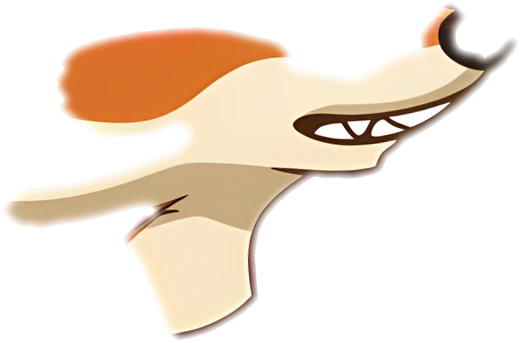
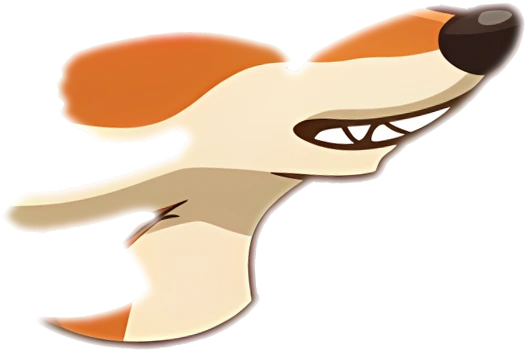
Rig: walk cycle with stance/swing, heel strike and toe-off; far shoe from the near drawing; arms as upper arm + forearm with an outward elbow (straight when hanging)

diff --git a/src/character/AgentFox.ts b/src/character/AgentFox.ts
@@ -1,6 +1,6 @@
 import { TAU, clamp, easeOut, hash, lerp } from '../animation/math';
 import { face as faceTweak, motion, tweaks } from './rig/tweaks';
-import { RIG, anchored, anchoredWarp, drawFace as drawRigFace, drawFaceBrows, hoseControl, noodle, part as rigPart, placed, placedWarp, rigReady, type Face, type MouthId, type V2 } from './rig/rigPuppet';
+import { RIG, anchored, anchoredWarp, drawFace as drawRigFace, drawFaceBrows, hoseControl, ik, noodle, part as rigPart, placed, placedWarp, rigReady, type Face, type MouthId, type V2 } from './rig/rigPuppet';
 export { loadRig as loadPuppet } from './rig/rigPuppet';
 
 /**
@@ -1622,6 +1622,8 @@ const NEAR_T: Partial<Record<ArmMode, ArmDef>> = {
 };
 const SHOULDER: Record<Phys, V2> = { near: J.shoulderBack, far: J.shoulderFront };
 const SLEEVE: Record<Phys, string> = { near: 'sleeve_front', far: 'sleeve_back' };
+const UPPER: Record<Phys, string> = { near: 'arm_front_upper', far: 'arm_back_upper' };
+const LOWER: Record<Phys, string> = { near: 'arm_front_lower', far: 'arm_back_lower' };
 const GLOVE_SUFFIX: Record<Phys, string> = { near: '', far: '_back' };
 const CAP: Record<Phys, string> = { near: 'cap_back', far: 'cap_front' };
 
@@ -1726,8 +1728,20 @@ function hoseHand(A: RigArm) {
   const d = Math.hypot(dx, dy) || 1;
   const out = A.phys === 'far' ? 1 : -1;
   const side = (-dy / d) * out * 0.6 + (dx / d) * 1 >= 0 ? 1 : -1;
-  // Arms hang straight (master look): the sleeve shortens up to 22% before the elbow bows.
-  const { c } = hoseControl(S, A.hand, L, side, 0.22);
+  void side;
+  void hoseControl;
+  // Master look: a real elbow. Upper arm and forearm are separate sleeve pieces; the elbow bends
+  // outward and down (the solution further from the body and lower wins), straight when the arm
+  // is fully reached.
+  const L1 = rigPart(UPPER[A.phys]).len!;
+  const L2 = rigPart(LOWER[A.phys]).len!;
+  // Hanging arms stay straight: the sleeves give up to 20% before the elbow starts to bend.
+  void L;
+  const scale = Math.min(1, Math.max(0.8, (d * 1.002) / Math.max(1, L1 + L2)));
+  const e1 = ik(S, A.hand, L1 * scale, L2 * scale, 1).e;
+  const e2 = ik(S, A.hand, L1 * scale, L2 * scale, -1).e;
+  const score = (e: V2) => out * (e[0] - S[0]) * 1.0 + (e[1] - S[1]) * 0.6;
+  const c: V2 = score(e1) >= score(e2) ? e1 : e2;
   const ang = Math.atan2(A.hand[1] - c[1], A.hand[0] - c[0]);
   const hx = A.hand[0] + Math.cos(ang) * 10;
   const hy = A.hand[1] + Math.sin(ang) * 10;
@@ -1751,7 +1765,10 @@ function drawRigArm(g: G, A: RigArm) {
   if (A.prop === 'hold' && A.phys === 'near') drawHeldPaper(g, h.hx + 60, h.hy - 120);
   drawGloveRig(g, A);
   // Master look: the upper arm is fuller where it leaves the coat's shoulder, tapering to the forearm.
-  noodle(g, SLEEVE[A.phys], h.S, h.c, A.hand, 0, 1, (t) => 1 + 0.24 * Math.pow(Math.max(0, 1 - t / 0.45), 1.6));
+  // Upper arm (fuller at the shoulder), then the forearm over it so the elbow's round end covers the joint.
+  const mid = (a: V2, b: V2): V2 => [(a[0] + b[0]) / 2, (a[1] + b[1]) / 2];
+  noodle(g, UPPER[A.phys], h.S, mid(h.S, h.c), h.c, 0, 1, (t) => 1.12 + 0.16 * Math.pow(Math.max(0, 1 - t / 0.5), 1.6));
+  noodle(g, LOWER[A.phys], h.c, mid(h.c, A.hand), A.hand, 0, 1, () => 1.06);
   // The far arm comes out from under the coat's shoulder; the near arm's rounded top IS the shoulder (master).
   if (A.phys === 'far' && A.layer !== 'behind') placed(g, CAP.far);
   if (A.prop === 'notebook' && A.phys === 'near') anchored(g, 'prop_notebook', h.hx + 95, h.hy - 75, -0.12);
@@ -1794,7 +1811,8 @@ function drawFoxSheetRig(g: G, pose: FoxPose): void {
   const bounceAmt = (pose.bounce ?? 1) * motion('bounce') * (1 - walk);
   const lift = beatLift(time);
   const landing = Math.pow(1 - lift, 6);
-  const walkBob = Math.abs(Math.cos(phase)) * 12 * walk;
+  // Up at passing (one foot under the hips), down at heel strike: twice per cycle.
+  const walkBob = Math.abs(Math.sin(phase)) * 12 * walk;
   const bob = -(lift * 12 * bounceAmt + walkBob) + landing * 4 * bounceAmt - surprise * 8;
   const squash = (pose.squash ?? 0) + landing * 0.045 * bounceAmt - lift * 0.02 * bounceAmt - surprise * 0.05 - Math.sin(time * 1.9) * 0.006 * (1 - walk);
   const lean = (pose.lean ?? 0) * 0.7 + walk * 0.05;
@@ -1887,11 +1905,22 @@ function drawFoxSheetRig(g: G, pose: FoxPose): void {
     const hip0 = name === 'near' ? J.hipNear : J.hipFar;
     const L = rigPart(`leg_${name}`).len!;
     const hip: V2 = [hip0[0], hip0[1] + B];
-    const liftAmt = Math.max(0, Math.cos(ph)) * walk;
-    const ankle: V2 = [hip0[0] + Math.sin(ph) * stride, hip0[1] + L - liftAmt * 26 * RK];
-    const { c } = hoseControl(hip, ankle, L, -1);
+    // Walk cycle (ph 0 = heel strike in front): stance 0..PI the foot slides back flat on the ground,
+    // swing PI..2PI it lifts (peak at passing), knee forward, and reaches out heel-first.
+    const p = ((ph % TAU) + TAU) % TAU;
+    const stance = p < Math.PI;
+    const u = stance ? p / Math.PI : (p - Math.PI) / Math.PI;
+    const ease = (x: number) => x * x * (3 - 2 * x);
+    const footX = stance ? lerp(1, -1, u) : lerp(-1, 1, ease(u));
+    const liftAmt = stance ? 0 : Math.sin(u * Math.PI) * walk;
+    const ankle: V2 = [hip0[0] + footX * stride, hip0[1] + L - liftAmt * 34 * RK];
+    // Toe: up at heel strike, flat in stance, down at toe-off, level through the swing.
+    const footRot = walk * (stance ? (u < 0.15 ? -0.22 * (1 - u / 0.15) : u > 0.8 ? 0.35 * ((u - 0.8) / 0.2) : 0) : lerp(0.35, -0.2, ease(u)));
+    // The knee always bows forward (+x): pick the bow side that puts the control point in front.
+    const side = ankle[1] - hip[1] >= 0 ? -1 : 1;
+    const { c } = hoseControl(hip, ankle, L, side);
     // Shoe first: the trouser hem falls over the top of the shoe instead of the shoe sitting on it.
-    anchored(g, `shoe_${name}`, ankle[0], ankle[1], -liftAmt * 0.35 + (walk ? Math.sin(ph) * 0.08 : 0));
+    anchored(g, `shoe_${name}`, ankle[0], ankle[1], footRot);
     noodle(g, `leg_${name}`, hip, c, ankle);
     mark(g, `hip_${name}`, hip);
     mark(g, `knee_${name}`, [(hip[0] + 2 * c[0] + ankle[0]) / 4, (hip[1] + 2 * c[1] + ankle[1]) / 4]);

diff --git a/src/character/rig/assets.ts b/src/character/rig/assets.ts
@@ -82,32 +82,33 @@ import a79 from './mouth_1.webp';
 import a80 from './mouth_10.webp';
 import a81 from './mouth_11.webp';
 import a82 from './mouth_12.webp';
-import a83 from './mouth_14.webp';
-import a84 from './mouth_15.webp';
-import a85 from './mouth_16.webp';
-import a86 from './mouth_19.webp';
-import a87 from './mouth_2.webp';
-import a88 from './mouth_20.webp';
-import a89 from './mouth_21.webp';
-import a90 from './mouth_22.webp';
-import a91 from './mouth_23.webp';
-import a92 from './mouth_3.webp';
-import a93 from './mouth_4.webp';
-import a94 from './mouth_5.webp';
-import a95 from './mouth_6.webp';
-import a96 from './mouth_7.webp';
-import a97 from './mouth_8.webp';
-import a98 from './mouth_9.webp';
-import a99 from './neck.webp';
-import a100 from './prop_magnifier.webp';
-import a101 from './prop_notebook.webp';
-import a102 from './prop_pencil.webp';
-import a103 from './shoe_far.webp';
-import a104 from './shoe_near.webp';
-import a105 from './sleeve_back.webp';
-import a106 from './sleeve_front.webp';
-import a107 from './tail.webp';
-import a108 from './torso.webp';
+import a83 from './mouth_13.webp';
+import a84 from './mouth_14.webp';
+import a85 from './mouth_15.webp';
+import a86 from './mouth_16.webp';
+import a87 from './mouth_19.webp';
+import a88 from './mouth_2.webp';
+import a89 from './mouth_20.webp';
+import a90 from './mouth_21.webp';
+import a91 from './mouth_22.webp';
+import a92 from './mouth_23.webp';
+import a93 from './mouth_3.webp';
+import a94 from './mouth_4.webp';
+import a95 from './mouth_5.webp';
+import a96 from './mouth_6.webp';
+import a97 from './mouth_7.webp';
+import a98 from './mouth_8.webp';
+import a99 from './mouth_9.webp';
+import a100 from './neck.webp';
+import a101 from './prop_magnifier.webp';
+import a102 from './prop_notebook.webp';
+import a103 from './prop_pencil.webp';
+import a104 from './shoe_far.webp';
+import a105 from './shoe_near.webp';
+import a106 from './sleeve_back.webp';
+import a107 from './sleeve_front.webp';
+import a108 from './tail.webp';
+import a109 from './torso.webp';
 
 export const RIG_ASSETS: Record<string, string> = {
   'arm_back_lower': a0,
@@ -193,30 +194,31 @@ export const RIG_ASSETS: Record<string, string> = {
   'mouth_10': a80,
   'mouth_11': a81,
   'mouth_12': a82,
-  'mouth_14': a83,
-  'mouth_15': a84,
-  'mouth_16': a85,
-  'mouth_19': a86,
-  'mouth_2': a87,
-  'mouth_20': a88,
-  'mouth_21': a89,
-  'mouth_22': a90,
-  'mouth_23': a91,
-  'mouth_3': a92,
-  'mouth_4': a93,
-  'mouth_5': a94,
-  'mouth_6': a95,
-  'mouth_7': a96,
-  'mouth_8': a97,
-  'mouth_9': a98,
-  'neck': a99,
-  'prop_magnifier': a100,
-  'prop_notebook': a101,
-  'prop_pencil': a102,
-  'shoe_far': a103,
-  'shoe_near': a104,
-  'sleeve_back': a105,
-  'sleeve_front': a106,
-  'tail': a107,
-  'torso': a108,
+  'mouth_13': a83,
+  'mouth_14': a84,
+  'mouth_15': a85,
+  'mouth_16': a86,
+  'mouth_19': a87,
+  'mouth_2': a88,
+  'mouth_20': a89,
+  'mouth_21': a90,
+  'mouth_22': a91,
+  'mouth_23': a92,
+  'mouth_3': a93,
+  'mouth_4': a94,
+  'mouth_5': a95,
+  'mouth_6': a96,
+  'mouth_7': a97,
+  'mouth_8': a98,
+  'mouth_9': a99,
+  'neck': a100,
+  'prop_magnifier': a101,
+  'prop_notebook': a102,
+  'prop_pencil': a103,
+  'shoe_far': a104,
+  'shoe_near': a105,
+  'sleeve_back': a106,
+  'sleeve_front': a107,
+  'tail': a108,
+  'torso': a109,
 };

diff --git a/src/character/rig/tweaks.ts b/src/character/rig/tweaks.ts
@@ -17,7 +17,7 @@ export const MOTION_DEFAULTS = {
   /** Hop on the music beat (0 = still). */
   bounce: 1,
   /** Walk: stride length and how much the arms swing. */
-  walkStride: 30,
+  walkStride: 44,
   armSwing: 34,
   /** Tail wag amplitude and speed. */
   tailWag: 46,
